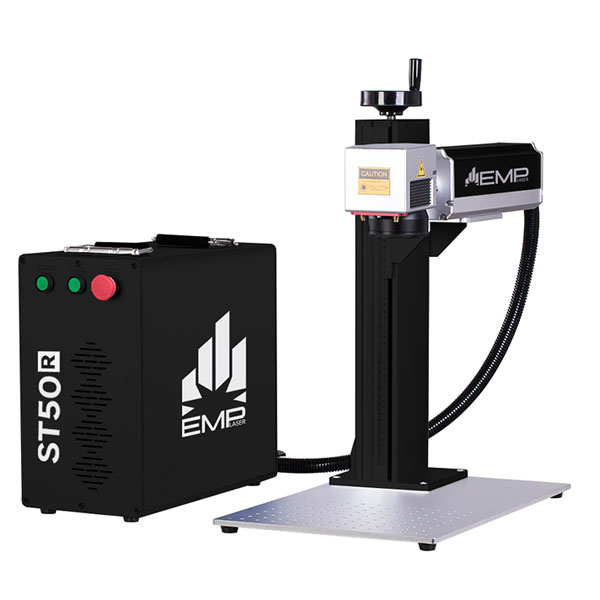
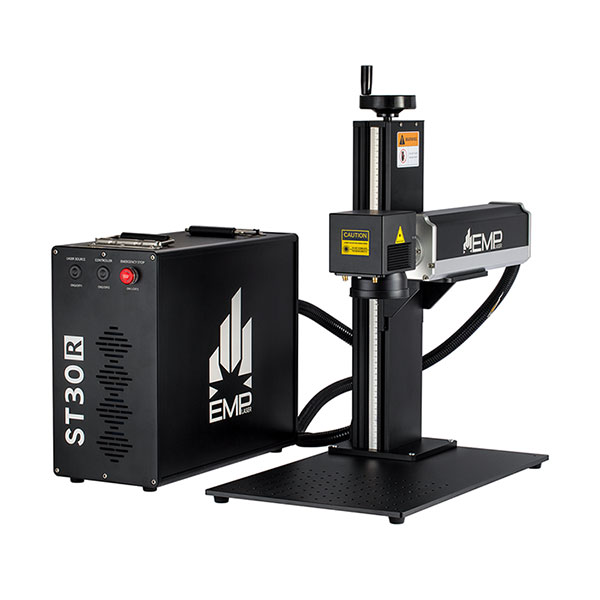
added piburn, updated promo images

diff --git a/public/nova.html b/public/nova.html
@@ -40,7 +40,7 @@
       padding: 2em 1em;
     }
     .instagram-made{background-color: ghostwhite;}
-    .financing {background-color: #fffded;}
+    .financing {background-color: #fff9ed;}
   </style>
 
   <!-- JSON-LD markup generated by Google Structured Data Markup Helper. -->
@@ -566,6 +566,18 @@ height="0" width="0" style="display:none;visibility:hidden"></iframe></noscript>
               </div>
               <div class="row">
                 <div class="col-xs-12 col-sm-12 col-md-6 col-lg-6">
+                  <img class="img-responsive" src="img/add-piburn-rotary.jpg" alt="PiBurn 4.0 with magnetic feet">
+                  <h4>PiBurn 4.0 with magnetic feet</h4>
+                  <p>The PiBurn rotary allows you to engrave cylindrical objects such as cups, tumblers, glasses, bottles, and champagne flutes with ease and precision. PiBurn comes fully assembled with magnetic feet.</p>
+                </div>
+                <div class="col-xs-12 col-sm-12 col-md-6 col-lg-6">
+                  <img class="img-responsive" src="img/add-lightburn-camera.jpg" alt="Lightburn Camera">
+                  <h4>Camera</h4>
+                  <p>Get a bird's eye view of your workspace right on your computer screen for quick and accurate placement of your design, so that you don’t have to measure (Lightburn upgrade required).</p>
+                </div>
+              </div>
+              <div class="row">
+                <div class="col-xs-12 col-sm-12 col-md-6 col-lg-6">
                   <img class="img-responsive" src="img/add-filtrabox-expand-x-2.jpg" alt="Filtrabox Expand X-2 Fume Extractor">
                   <h4>Filtrabox Expand X-2 Fume Extractor</h4>
                   <p>Fume Extractor w/ 1-blower and high capacity 3 stage HEPA filtration. Extracts, filters and recirculates clean air into the workspace. Dimensions: 38"(H) x 15"(W) x 31"(D) Recommended for NOVA 10 and NOVA 14 (light duty only).</p>
@@ -576,19 +588,12 @@ height="0" width="0" style="display:none;visibility:hidden"></iframe></noscript>
                   <p>Fume Extractor w/ 1-blower and high capacity 3 stage HEPA filtration. Extracts, filters and recirculates clean air into the workspace. Dimensions: 38"(H) x 15"(W) x 31"(D) Recommended for NOVA 14 and NOVA 16.</p>
                 </div>
               </div>
-              <div class="row">
-                <div class="col-xs-12 col-sm-12 col-md-6 col-lg-6">
-                  <img class="img-responsive" src="img/add-lightburn-camera.jpg" alt="Lightburn Camera">
-                  <h4>Camera</h4>
-                  <p>Get a bird's eye view of your workspace right on your computer screen for quick and accurate placement of your design, so that you don’t have to measure (Lightburn upgrade required).</p>
-                </div>
+              <div class="row last">
                 <div class="col-xs-12 col-sm-12 col-md-6 col-lg-6">
                   <img class="img-responsive" src="img/add-remote-control.jpg" alt="Remote Control">
                   <h4>Remote Control</h4>
                   <p>Programming is a breeze with our advanced DSP digital control system or an optional wireless remote that puts all of the controls right in the palm of your hand.</p>
                 </div>
-              </div>
-              <div class="row last">
                 <div class="col-xs-12 col-sm-12 col-md-6 col-lg-6">
                   <img class="img-responsive" src="img/add-protective-goggles.jpg" alt="CO2 Laser Protective Goggles - (10.6um) only">
                   <h4>CO2 Laser Protective Goggles</h4>

diff --git a/public/supernova.html b/public/supernova.html
@@ -40,7 +40,7 @@
       padding: 2em 1em;
     }
     .instagram-made{background-color: ghostwhite;}
-    .financing {background-color: #fffded;}
+    .financing {background-color: #fff9ed;}
   </style>
 
   <!-- JSON-LD markup generated by Google Structured Data Markup Helper. -->
@@ -912,6 +912,18 @@ height="0" width="0" style="display:none;visibility:hidden"></iframe></noscript>
               </div>
               <div class="row">
                 <div class="col-xs-12 col-sm-12 col-md-6 col-lg-6">
+                  <img class="img-responsive" src="img/add-piburn-rotary.jpg" alt="PiBurn 4.0 with magnetic feet">
+                  <h4>PiBurn 4.0 with magnetic feet</h4>
+                  <p>The PiBurn rotary allows you to engrave cylindrical objects such as cups, tumblers, glasses, bottles, and champagne flutes with ease and precision. PiBurn comes fully assembled with magnetic feet.</p>
+                </div>
+                <div class="col-xs-12 col-sm-12 col-md-6 col-lg-6">
+                  <img class="img-responsive" src="img/add-lightburn-camera.jpg" alt="Lightburn Camera">
+                  <h4>Camera</h4>
+                  <p>Get a bird's eye view of your workspace right on your computer screen for quick and accurate placement of your design, so that you don’t have to measure (Lightburn upgrade required).</p>
+                </div>
+              </div>
+              <div class="row">
+                <div class="col-xs-12 col-sm-12 col-md-6 col-lg-6">
                   <img class="img-responsive" src="img/add-filtrabox-expand-x-2.jpg" alt="Filtrabox Expand X-2 Fume Extractor">
                   <h4>Filtrabox Expand X-2 Fume Extractor</h4>
                   <p>Fume Extractor w/ 1-blower and high capacity 3 stage HEPA filtration. Extracts, filters and recirculates clean air into the workspace. Dimensions: 38"(H) x 15"(W) x 31"(D) Recommended for NOVA10S and NOVA14S (light duty only).</p>
@@ -922,19 +934,12 @@ height="0" width="0" style="display:none;visibility:hidden"></iframe></noscript>
                   <p>Fume Extractor w/ 1-blower and high capacity 3 stage HEPA filtration. Extracts, filters and recirculates clean air into the workspace. Dimensions: 38"(H) x 15"(W) x 31"(D) Recommended for NOVA14S and NOVA16S.</p>
                 </div>
               </div>
-              <div class="row">
+              <div class="row last">
                 <div class="col-xs-12 col-sm-12 col-md-6 col-lg-6">
                   <img class="img-responsive" src="img/add-remote-control.jpg" alt="Remote Control">
                   <h4>Remote Control</h4>
                   <p>Programming is a breeze with our advanced DSP digital control system or an optional wireless remote that puts all of the controls right in the palm of your hand.</p>
                 </div>
-                <div class="col-xs-12 col-sm-12 col-md-6 col-lg-6">
-                  <img class="img-responsive" src="img/add-lightburn-camera.jpg" alt="Lightburn Camera">
-                  <h4>Camera</h4>
-                  <p>Get a bird's eye view of your workspace right on your computer screen for quick and accurate placement of your design, so that you don’t have to measure (Lightburn upgrade required).</p>
-                </div>
-              </div>
-              <div class="row last">
                 <div class="col-xs-12 col-sm-12 col-md-6 col-lg-6">
                   <img class="img-responsive" src="img/add-protective-goggles.jpg" alt="CO2 Laser Protective Goggles - (10.6um) only">
                   <h4>CO2 Laser Protective Goggles</h4>

diff --git a/public/mira-pro.html b/public/mira-pro.html
@@ -40,7 +40,7 @@
       padding: 2em 1em;
     }
     .instagram-made{background-color: ghostwhite;}
-    .financing {background-color: #fffded;}
+    .financing {background-color: #fff9ed;}
   </style>
 
 
@@ -620,9 +620,9 @@ height="0" width="0" style="display:none;visibility:hidden"></iframe></noscript>
                   <p>The more precise way of handling cylindrical items is with this 3 jaw rotary chuck. Clamp any item up to 3.15" (80mm) in diameter with Mira 7 or Mira 9, and rotate it for 360 degree engraving</p>
                 </div>
                 <div class="col-xs-12 col-sm-12 col-md-6 col-lg-6">
-                  <img class="img-responsive" src="img/add-stand-mira-pro.jpg" alt="Aeon Stand">
-                  <h4>Stand</h4>
-                  <p>Not just any old table will do. The R&D team put their signature on this sleek modern looking stand that is also on wheels for added convenience.</p>
+                  <img class="img-responsive" src="img/add-piburn-rotary.jpg" alt="PiBurn 4.0 with magnetic feet">
+                  <h4>PiBurn 4.0 with magnetic feet</h4>
+                  <p>The PiBurn rotary allows you to engrave cylindrical objects such as cups, tumblers, glasses, bottles, and champagne flutes with ease and precision. PiBurn comes fully assembled with magnetic feet.</p>
                 </div>
               </div>
               <div class="row">
@@ -649,7 +649,7 @@ height="0" width="0" style="display:none;visibility:hidden"></iframe></noscript>
                   <p>Programming is a breeze with our advanced DSP digital control system or an optional wireless remote that puts all of the controls right in the palm of your hand.</p>
                 </div>
               </div>
-              <div class="row last">
+              <div class="row">
                 <div class="col-xs-12 col-sm-12 col-md-6 col-lg-6">
                   <img class="img-responsive" src="img/add-lightburn-camera.jpg" alt="Lightburn Camera">
                   <h4>Camera</h4>
@@ -659,6 +659,13 @@ height="0" width="0" style="display:none;visibility:hidden"></iframe></noscript>
                   <img class="img-responsive" src="img/add-protective-goggles.jpg" alt="CO2 Laser Protective Goggles - (10.6um) only">
                   <h4>CO2 Laser Protective Goggles</h4>
                   <p>Protect your eyes from infrared light radiation that can compromise your vision over time. Glasses are designed for use with CO2 lasers (10.6um) only.</p>
+                </div>
+              </div>
+              <div class="row last">
+                <div class="col-xs-12 col-sm-12 col-md-6 col-lg-6">
+                  <img class="img-responsive" src="img/add-stand-mira-pro.jpg" alt="Aeon Stand">
+                  <h4>Stand</h4>
+                  <p>Not just any old table will do. The R&D team put their signature on this sleek modern looking stand that is also on wheels for added convenience.</p>
                 </div>
               </div>
             </div>

diff --git a/public/promos.html b/public/promos.html
@@ -122,7 +122,7 @@ j=d.createElement(s),dl=l!='dataLayer'?'&l='+l:'';j.async=true;j.src=
 <!-- END GOAFFPRO -->
 
 
-  <style>.financing {background-color: ghostwhite;}</style>
+  <style>.financing {background-color: #fff;}</style>
 </head>
 
 <body>
@@ -218,7 +218,7 @@ height="0" width="0" style="display:none;visibility:hidden"></iframe></noscript>
       </div>
     </section>
 
-    <section>
+    <section class="bg-ghost">
       <div class="container pt-50">
         <div class="row">
           <div class="col-xs-12 col-md-10 col-md-offset-1">
@@ -270,7 +270,7 @@ height="0" width="0" style="display:none;visibility:hidden"></iframe></noscript>
       </div>
     </section>
 
-    <section>
+    <section class="bg-ghost">
       <div class="container py-3">
         <div class="row">
           <div class="col-xs-12 col-md-10 col-md-offset-1">
@@ -296,7 +296,7 @@ height="0" width="0" style="display:none;visibility:hidden"></iframe></noscript>
       </div>
     </section>
 
-    <section class="bg-ghost">
+    <section >
       <div class="container py-3">
         <div class="row">
           <div class="col-xs-12 col-md-10 col-md-offset-1">
@@ -337,7 +337,7 @@ height="0" width="0" style="display:none;visibility:hidden"></iframe></noscript>
       </div>
     </section>
 
-    <section>
+    <section class="bg-ghost">
       <div class="container py-3">
         <div class="row">
           <div class="col-xs-12 col-md-10 col-md-offset-1">
@@ -377,7 +377,7 @@ height="0" width="0" style="display:none;visibility:hidden"></iframe></noscript>
       </div>
     </section>
 
-    <section class="bg-ghost">
+    <section>
       <div class="container py-3">
         <div class="row">
           <div class="col-xs-12 col-md-10 col-md-offset-1">
@@ -417,7 +417,7 @@ height="0" width="0" style="display:none;visibility:hidden"></iframe></noscript>
       </div>
     </section>
 
-    <section>
+    <section class="bg-ghost">
       <div class="container py-4">
         <div class="row">
           <div class="col-xs-12 col-md-10 col-md-offset-1">

diff --git a/public/build-NOVA.html b/public/build-NOVA.html
@@ -70,6 +70,11 @@
         <span class="price">$1400</span>
         <div class="check"></div>
       </li>
+      <li class="js-option" data-price="923">
+        <p><span class="thumb"><img src="img/add-piburn-rotary.jpg" alt="PiBurn 4.0 with magnetic feet"></span> PiBurn 4.0 with magnetic feet</p>
+        <span class="price">$923</span>
+        <div class="check"></div>
+      </li>
       <li class="js-option" data-price="1200">
         <p><span class="thumb"><img src="img/add-multi-roller.jpg" alt="Aeon laser with six tumblers sitting in the Multi Roller"></span> Multi-Roller Rotary</p>
         <span class="price">$1200</span>

diff --git a/public/build-SUPERNOVA.html b/public/build-SUPERNOVA.html
@@ -80,6 +80,11 @@
         <span class="price">$1400</span>
         <div class="check"></div>
       </li>
+      <li class="js-option" data-price="923">
+        <p><span class="thumb"><img src="img/add-piburn-rotary.jpg" alt="PiBurn 4.0 with magnetic feet"></span> PiBurn 4.0 with magnetic feet</p>
+        <span class="price">$923</span>
+        <div class="check"></div>
+      </li>
       <li class="js-option" data-price="1200">
         <p><span class="thumb"><img src="img/add-multi-roller.jpg" alt="Aeon laser with six tumblers sitting in the Multi Roller"></span> Multi-Roller Rotary</p>
         <span class="price">$1200</span>

diff --git a/public/build-MIRAPRO.html b/public/build-MIRAPRO.html
@@ -65,6 +65,11 @@
         <span class="price">$975</span>
         <div class="check"></div>
       </li>
+      <li class="js-option" data-price="923">
+        <p><span class="thumb"><img src="img/add-piburn-rotary.jpg" alt="PiBurn 4.0 with magnetic feet"></span> PiBurn 4.0 with magnetic feet</p>
+        <span class="price">$923</span>
+        <div class="check"></div>
+      </li>
       <li class="js-option" data-price="1200">
         <p><span class="thumb"><img src="img/add-multi-roller.jpg" alt="Aeon laser with six tumblers sitting in the Multi Roller"></span> Multi-Roller Rotary</p>
         <span class="price">$1200</span>
